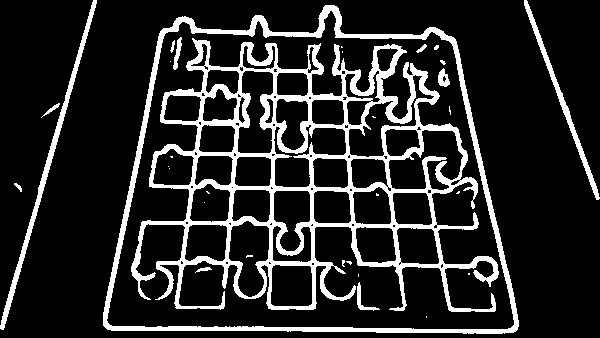
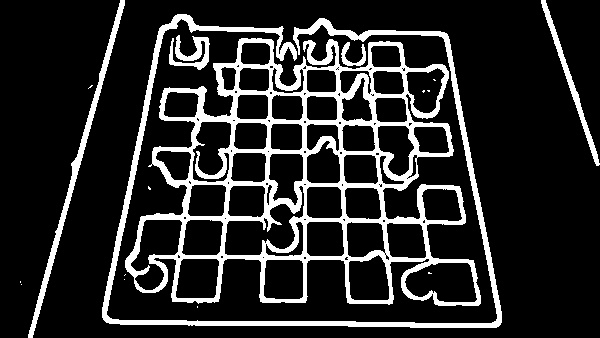
tenis_commiti

diff --git a/src/main/java/com/chessgame/ChessBoardDebug.java b/src/main/java/com/chessgame/ChessBoardDebug.java
@@ -30,7 +30,7 @@ public class ChessBoardDebug {
 
     public static void main(String[] args) {
 
-        String nameOfFile = "IMG_9640.jpg";
+        String nameOfFile = "IMG_9671_720p.jpg";
 
         String inputImagePath = Paths.get("src", "main", "resources", "tests", nameOfFile).toString();
 
